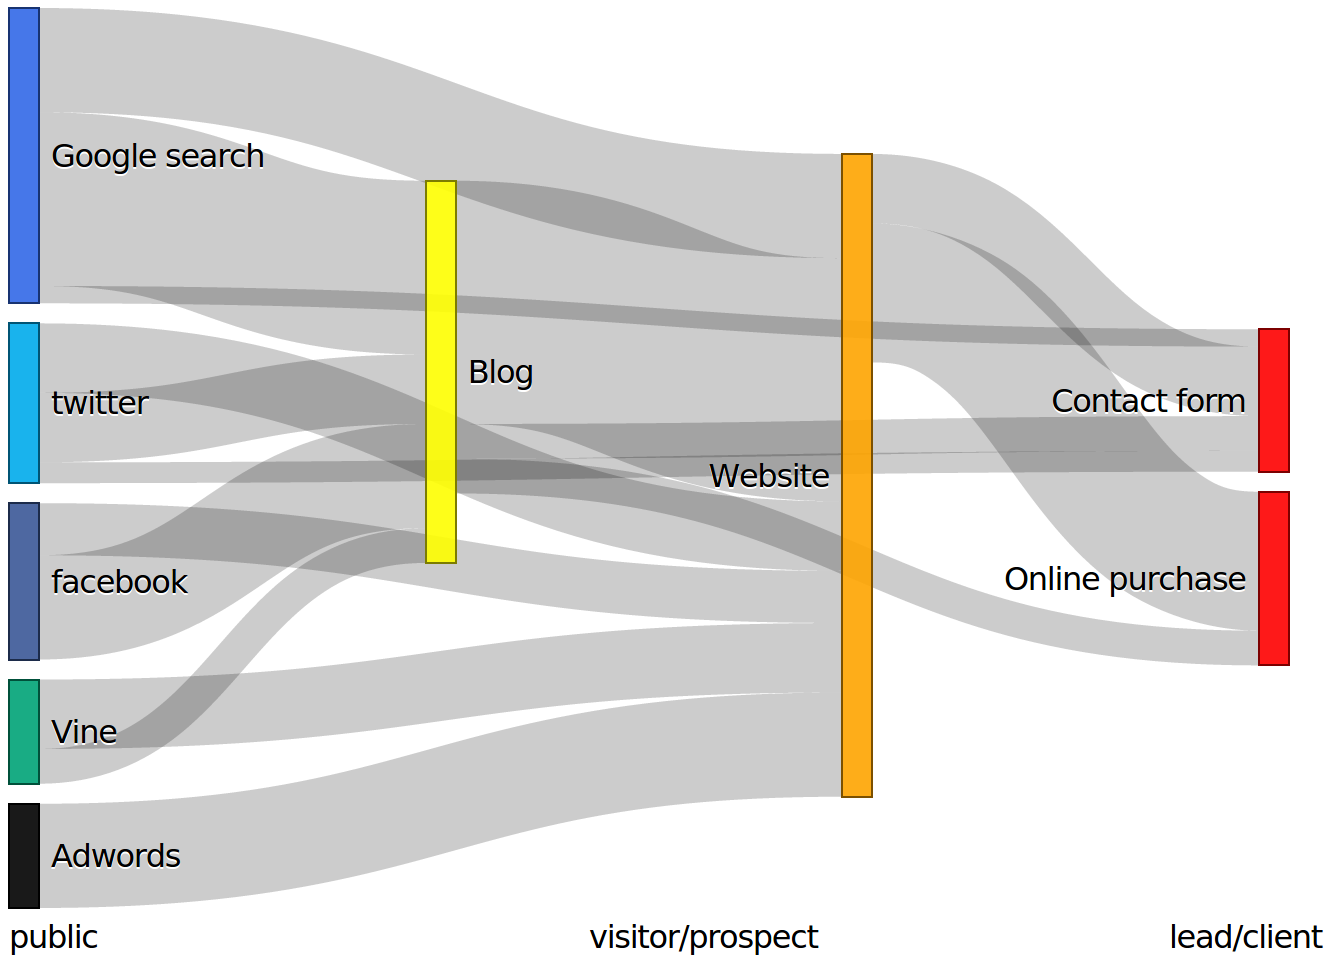
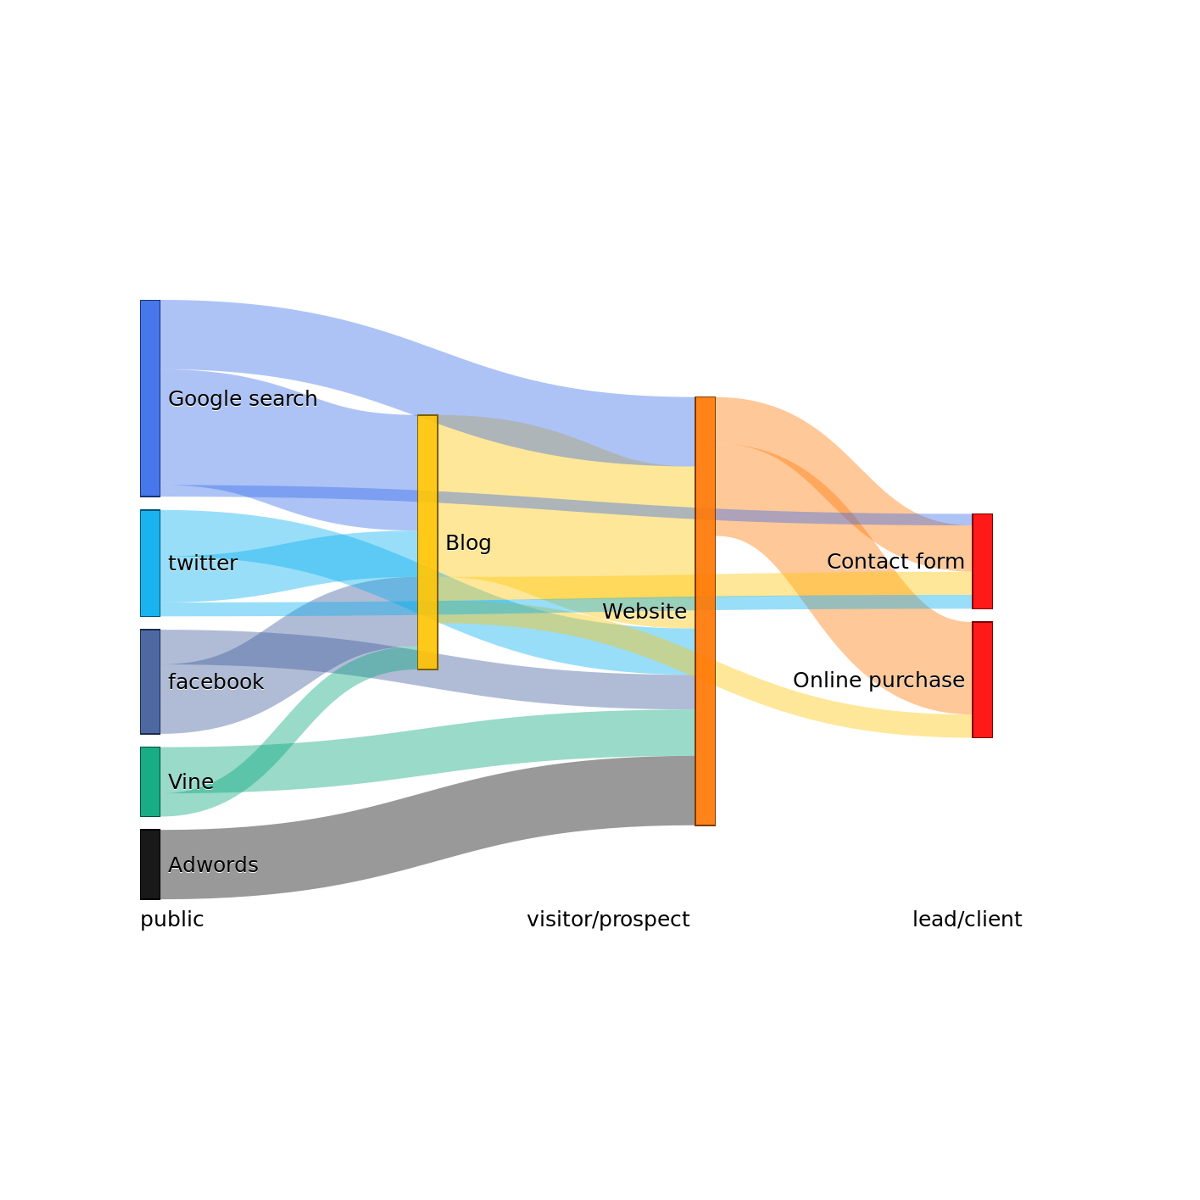
tuned Conversions funnel chart: added colors

diff --git a/blog/css/2014-12-02-getting-started-with-twitter.css b/blog/css/2014-12-02-getting-started-with-twitter.css
@@ -1,1 +1,1 @@
-.link {fill: none;stroke: #666;stroke-width: 1.5px;}#licensing {fill: green;}.link.licensing {stroke: green;}.link.resolved {stroke-dasharray: 0,2 1;}svg circle {fill: #ccc;stroke: #333;stroke-width: 1.5px;}svg text {font: 16px sans-serif;text-shadow: 0 1px 0 #fff, 1px 0 0 #fff, 0 -1px 0 #fff, -1px 0 0 #fff;}.node rect {  cursor: move;  fill-opacity: .9;  shape-rendering: crispEdges;}.node text {  pointer-events: none;  text-shadow: 0 1px 0 #fff;}.link {  fill: none;  stroke: #000;  stroke-opacity: .2;}.link:hover {  stroke-opacity: .7;}.bar text {  fill: white;text-shadow:none;}.axis path, .axis line {  fill: none;  stroke: black;  stroke-width: 2px; shape-rendering: crispEdges;}svg text.profile {cursor:pointer;}
+.link {fill: none;stroke: #666;stroke-width: 1.5px;}#licensing {fill: green;}.link.licensing {stroke: green;}.link.resolved {stroke-dasharray: 0,2 1;}svg circle {fill: #ccc;stroke: #333;stroke-width: 1.5px;}svg text {font: 16px sans-serif;text-shadow: 0 1px 0 #fff, 1px 0 0 #fff, 0 -1px 0 #fff, -1px 0 0 #fff;}.node rect {  cursor: move;  fill-opacity: .9;  shape-rendering: crispEdges;}.node text {  pointer-events: none;  text-shadow: 0 1px 0 #fff;}.link {  fill: none;  stroke: #000;  stroke-opacity: .4;}.link:hover {  stroke-opacity: .8;}.bar text {  fill: white;text-shadow:none;}.axis path, .axis line {  fill: none;  stroke: black;  stroke-width: 2px; shape-rendering: crispEdges;}svg text.profile {cursor:pointer;}

diff --git a/business/_posts/2014-12-02-getting-started-with-twitter.md b/business/_posts/2014-12-02-getting-started-with-twitter.md
@@ -12,7 +12,7 @@ tags: mehdi
 subtitle: Using social media for sales conversions
 thumbnail: blog/img/thumbnails/2014-12-02-getting-started-with-twitter.png
 csss: [css/reveal.min.css, css/reveal.tribalytics.css, css/foundation.min.css, blog/css/2014-12-02-getting-started-with-twitter.css]
-scripts: [js/utils/head.min.js, js/reveal.min.js, js/d3.v3.min.js, js/d3.customCategories.js, blog/js/2014-12-02-getting-started-with-twitter.js]
+scripts: [js/utils/head.min.js, js/reveal.min.js, js/d3.v3.min.js, js/d3.customCategories.js, blog/js/2014-12-02-getting-started-withTwitter.js]
 ---
 
 <div class="reveal">
@@ -122,13 +122,13 @@ scripts: [js/utils/head.min.js, js/reveal.min.js, js/d3.v3.min.js, js/d3.customC
 		<section data-state="funnel" data-background="{{ site.url }}/blog/img/bg.jpg" data-background-size="100%">
 			<div id="conversions-funnel">
 				<h3>Business conversions funnel</h3>
-				<svg width="700" height="500" preserveAspectRatio="xMinYMin" viewbox="0 0 700 500"><g transform="translate(40,20)"><g><path class="link" d="M223.33333333333334,147.1740538957128C320,147.1740538957128 320,185.89414522351075 416.6666666666667,185.89414522351075" style="stroke-width: 121.61016949152543;"><title>70 people in Blog moved to Website</title></path><path class="link" d="M15,95.55084745762713C111.66666666666667,95.55084745762713 111.66666666666667,129.8011725397806 208.33333333333334,129.8011725397806" style="stroke-width: 86.86440677966102;"><title>50 people in Google search moved to Blog</title></path><path class="link" d="M431.6666666666667,142.46194183368027C528.3333333333334,142.46194183368027 528.3333333333334,276.59514968560825 625,276.59514968560825" style="stroke-width: 69.49152542372882;"><title>40 people in Website moved to Online purchase</title></path><path class="link" d="M15,423.9406779661017C215.83333333333334,423.9406779661017 215.83333333333334,368.3093994607989 416.6666666666667,368.3093994607989" style="stroke-width: 52.11864406779661;"><title>30 people in Adwords moved to Website</title></path><path class="link" d="M15,299.70338983050846C111.66666666666667,299.70338983050846 111.66666666666667,234.0384606753738 208.33333333333334,234.0384606753738" style="stroke-width: 52.11864406779661;"><title>30 people in facebook moved to Blog</title></path><path class="link" d="M15,26.059322033898304C215.83333333333334,26.059322033898304 215.83333333333334,99.02973844384974 416.6666666666667,99.02973844384974" style="stroke-width: 52.11864406779661;"><title>30 people in Google search moved to Website</title></path><path class="link" d="M15,209.78813559322035C111.66666666666667,209.78813559322035 111.66666666666667,190.6062572855433 208.33333333333334,190.6062572855433" style="stroke-width: 34.74576271186441;"><title>20 people in twitter moved to Blog</title></path><path class="link" d="M15,175.04237288135593C215.83333333333334,175.04237288135593 215.83333333333334,264.07211132520564 416.6666666666667,264.07211132520564" style="stroke-width: 34.74576271186441;"><title>20 people in twitter moved to Website</title></path><path class="link" d="M15,353.135593220339C215.83333333333334,353.135593220339 215.83333333333334,324.87719607096835 416.6666666666667,324.87719607096835" style="stroke-width: 34.74576271186441;"><title>20 people in Vine moved to Website</title></path><path class="link" d="M431.6666666666667,90.34329776588365C528.3333333333334,90.34329776588365 528.3333333333334,186.6798954483201 625,186.6798954483201" style="stroke-width: 34.74576271186441;"><title>20 people in Website moved to Contact form</title></path><path class="link" d="M15,260.614406779661C215.83333333333334,260.614406779661 215.83333333333334,294.474653698087 416.6666666666667,294.474653698087" style="stroke-width: 26.059322033898304;"><title>15 people in facebook moved to Website</title></path><path class="link" d="M223.33333333333334,216.6655793194416C424.16666666666663,216.6655793194416 424.16666666666663,212.7392174822184 625,212.7392174822184" style="stroke-width: 17.372881355932204;"><title>10 people in Blog moved to Contact form</title></path><path class="link" d="M223.33333333333334,234.0384606753738C424.16666666666663,234.0384606753738 424.16666666666663,320.0273530754388 625,320.0273530754388" style="stroke-width: 17.372881355932204;"><title>10 people in Blog moved to Online purchase</title></path><path class="link" d="M15,379.19491525423734C111.66666666666667,379.19491525423734 111.66666666666667,268.7842233872382 208.33333333333334,268.7842233872382" style="stroke-width: 17.372881355932204;"><title>10 people in Vine moved to Blog</title></path><path class="link" d="M15,232.3728813559322C320,232.3728813559322 320,226.63752256696418 625,226.63752256696418" style="stroke-width: 10.423728813559322;"><title>6 people in twitter moved to Contact form</title></path><path class="link" d="M15,143.3262711864407C320,143.3262711864407 320,164.96379375340487 625,164.96379375340487" style="stroke-width: 8.686440677966102;"><title>5 people in Google search moved to Contact form</title></path></g><g><g class="node" transform="translate(0,0)"><rect height="147.66949152542372" width="15" style="fill: #3369E8; stroke: #183371;"><title>85 people
+				<svg width="700" height="500" preserveAspectRatio="xMinYMin" viewbox="0 0 700 500"><g transform="translate(40,20)"><g><path class="link" d="M223.33333333333334,147.1740538957128C320,147.1740538957128 320,185.89414522351075 416.6666666666667,185.89414522351075" style="stroke: #FFC300; stroke-width: 121.61016949152543;"><title>70 people in Blog moved to Website</title></path><path class="link" d="M15,95.55084745762713C111.66666666666667,95.55084745762713 111.66666666666667,129.8011725397806 208.33333333333334,129.8011725397806" style="stroke: #3369E8; stroke-width: 86.86440677966102;"><title>50 people in Google search moved to Blog</title></path><path class="link" d="M431.6666666666667,142.46194183368027C528.3333333333334,142.46194183368027 528.3333333333334,276.59514968560825 625,276.59514968560825" style="stroke: #FF7600; stroke-width: 69.49152542372882;"><title>40 people in Website moved to Online purchase</title></path><path class="link" d="M15,423.9406779661017C215.83333333333334,423.9406779661017 215.83333333333334,368.3093994607989 416.6666666666667,368.3093994607989" style="stroke: black; stroke-width: 52.11864406779661;"><title>30 people in Adwords moved to Website</title></path><path class="link" d="M15,299.70338983050846C111.66666666666667,299.70338983050846 111.66666666666667,234.0384606753738 208.33333333333334,234.0384606753738" style="stroke: #3b5998; stroke-width: 52.11864406779661;"><title>30 people in facebook moved to Blog</title></path><path class="link" d="M15,26.059322033898304C215.83333333333334,26.059322033898304 215.83333333333334,99.02973844384974 416.6666666666667,99.02973844384974" style="stroke: #3369E8; stroke-width: 52.11864406779661;"><title>30 people in Google search moved to Website</title></path><path class="link" d="M15,209.78813559322035C111.66666666666667,209.78813559322035 111.66666666666667,190.6062572855433 208.33333333333334,190.6062572855433" style="stroke: #00aced; stroke-width: 34.74576271186441;"><title>20 people in twitter moved to Blog</title></path><path class="link" d="M15,175.04237288135593C215.83333333333334,175.04237288135593 215.83333333333334,264.07211132520564 416.6666666666667,264.07211132520564" style="stroke: #00aced; stroke-width: 34.74576271186441;"><title>20 people in twitter moved to Website</title></path><path class="link" d="M15,353.135593220339C215.83333333333334,353.135593220339 215.83333333333334,324.87719607096835 416.6666666666667,324.87719607096835" style="stroke: #00a478; stroke-width: 34.74576271186441;"><title>20 people in Vine moved to Website</title></path><path class="link" d="M431.6666666666667,90.34329776588365C528.3333333333334,90.34329776588365 528.3333333333334,186.6798954483201 625,186.6798954483201" style="stroke: #FF7600; stroke-width: 34.74576271186441;"><title>20 people in Website moved to Contact form</title></path><path class="link" d="M15,260.614406779661C215.83333333333334,260.614406779661 215.83333333333334,294.474653698087 416.6666666666667,294.474653698087" style="stroke: #3b5998; stroke-width: 26.059322033898304;"><title>15 people in facebook moved to Website</title></path><path class="link" d="M223.33333333333334,216.6655793194416C424.16666666666663,216.6655793194416 424.16666666666663,212.7392174822184 625,212.7392174822184" style="stroke: #FFC300; stroke-width: 17.372881355932204;"><title>10 people in Blog moved to Contact form</title></path><path class="link" d="M223.33333333333334,234.0384606753738C424.16666666666663,234.0384606753738 424.16666666666663,320.0273530754388 625,320.0273530754388" style="stroke: #FFC300; stroke-width: 17.372881355932204;"><title>10 people in Blog moved to Online purchase</title></path><path class="link" d="M15,379.19491525423734C111.66666666666667,379.19491525423734 111.66666666666667,268.7842233872382 208.33333333333334,268.7842233872382" style="stroke: #00a478; stroke-width: 17.372881355932204;"><title>10 people in Vine moved to Blog</title></path><path class="link" d="M15,232.3728813559322C320,232.3728813559322 320,226.63752256696418 625,226.63752256696418" style="stroke: #00aced; stroke-width: 10.423728813559322;"><title>6 people in twitter moved to Contact form</title></path><path class="link" d="M15,143.3262711864407C320,143.3262711864407 320,164.96379375340487 625,164.96379375340487" style="stroke: #3369E8; stroke-width: 8.686440677966102;"><title>5 people in Google search moved to Contact form</title></path></g><g><g class="node" transform="translate(0,0)"><rect height="147.66949152542372" width="15" style="fill: #3369E8; stroke: #183371;"><title>85 people
 in Google search</title></rect><text x="21" y="73.83474576271186" dy=".35em" text-anchor="start">Google search</text></g><g class="node" transform="translate(0,397.8813559322034)"><rect height="52.11864406779661" width="15" style="fill: black; stroke: #000000;"><title>30 people
 in Adwords</title></rect><text x="21" y="26.059322033898304" dy=".35em" text-anchor="start">Adwords</text></g><g class="node" transform="translate(0,247.58474576271186)"><rect height="78.17796610169492" width="15" style="fill: #3b5998; stroke: #1c2b4a;"><title>45 people
 in facebook</title></rect><text x="21" y="39.08898305084746" dy=".35em" text-anchor="start">facebook</text></g><g class="node" transform="translate(0,157.66949152542372)"><rect height="79.91525423728814" width="15" style="fill: #00aced; stroke: #005474;"><title>46 people
 in twitter</title></rect><text x="21" y="39.95762711864407" dy=".35em" text-anchor="start">twitter</text></g><g class="node" transform="translate(0,335.7627118644068)"><rect height="52.11864406779661" width="15" style="fill: #00a478; stroke: #00503a;"><title>30 people
-in Vine</title></rect><text x="21" y="26.059322033898304" dy=".35em" text-anchor="start">Vine</text></g><g class="node" transform="translate(208.33333333333334,86.36896914995009)"><rect height="191.10169491525423" width="15" style="fill: yellow; stroke: #7c7c00;"><title>110 people
-in Blog</title></rect><text x="21" y="95.55084745762711" dy=".35em" text-anchor="start">Blog</text></g><g class="node" transform="translate(416.6666666666667,72.97041640995144)"><rect height="321.39830508474574" width="15" style="fill: orange; stroke: #7c5000;"><title>185 people
+in Vine</title></rect><text x="21" y="26.059322033898304" dy=".35em" text-anchor="start">Vine</text></g><g class="node" transform="translate(208.33333333333334,86.36896914995009)"><rect height="191.10169491525423" width="15" style="fill: #FFC300; stroke: #7c5f00;"><title>110 people
+in Blog</title></rect><text x="21" y="95.55084745762711" dy=".35em" text-anchor="start">Blog</text></g><g class="node" transform="translate(416.6666666666667,72.97041640995144)"><rect height="321.39830508474574" width="15" style="fill: #FF7600; stroke: #7c3900;"><title>185 people
 in Website</title></rect><text x="-6" y="160.69915254237287" dy=".35em" text-anchor="end">Website</text></g><g class="node" transform="translate(625,160.6205734144218)"><rect height="71.22881355932203" width="15" style="fill: red; stroke: #7c0000;"><title>41 people
 in Contact form</title></rect><text x="-6" y="35.61440677966102" dy=".35em" text-anchor="end">Contact form</text></g><g class="node" transform="translate(625,241.84938697374383)"><rect height="86.86440677966102" width="15" style="fill: red; stroke: #7c0000;"><title>50 people
 in Online purchase</title></rect><text x="-6" y="43.43220338983051" dy=".35em" text-anchor="end">Online purchase</text></g></g><g><text transform="translate(0,470)">public</text><text transform="translate(290,470)">visitor/prospect</text><text transform="translate(580,470)">lead/client</text></g></g></svg>
